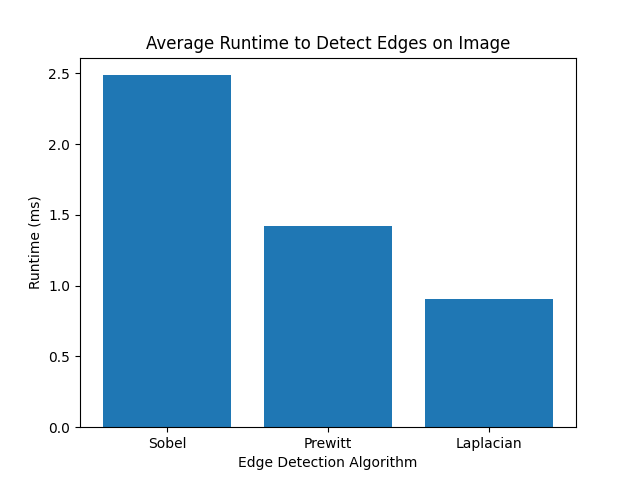
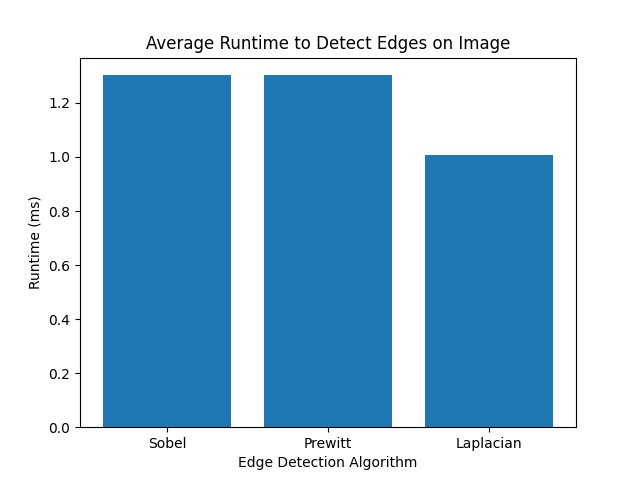
Added to evaluation

diff --git a/efficiency_evaluation.py b/efficiency_evaluation.py
@@ -138,6 +138,20 @@ def laplacian_scratch(img):
     return edges
 
 
+def display_canny_scratch(times):
+    labels = ['Canny']
+    left = [1]
+
+    plt.bar(left, times[0], tick_label=labels, width=0.8)
+
+    plt.xlabel('Edge Detection Algorithm')
+    plt.ylabel('Runtime (s)')
+    plt.title('Average Runtime to Detect Edges on Image')
+
+    plt.savefig('images/canny_scratch')
+    plt.show()
+
+
 def scratch_evaluation():
     img = cv2.imread('images/tomatoes.jpg', cv2.IMREAD_GRAYSCALE)
     averages = []
@@ -151,21 +165,21 @@ def scratch_evaluation():
                 end = time.time()
                 times.append(end - start)
         if i == 1:
-            for _ in range(100000):
+            for _ in range(10000):
                 start = time.time()
                 img = cv2.GaussianBlur(img, (5, 5), 0)
                 sobel_scratch(img)
                 end = time.time()
                 times.append(end - start)
         if i == 2:
-            for _ in range(100000):
+            for _ in range(10000):
                 start = time.time()
                 img = cv2.GaussianBlur(img, (5, 5), 0)
                 prewitt_scratch(img)
                 end = time.time()
                 times.append(end - start)
         if i == 3:
-            for _ in range(100000):
+            for _ in range(10000):
                 start = time.time()
                 img = cv2.GaussianBlur(img, (5, 5), 0)
                 laplacian_scratch(img)
@@ -176,6 +190,7 @@ def scratch_evaluation():
         averages.append(avg)
     print(averages)
     display_results_scratch(averages, 'images/scratch_efficiency_evaluation.png')
+    display_canny_scratch(averages)
 
 
 def main():
